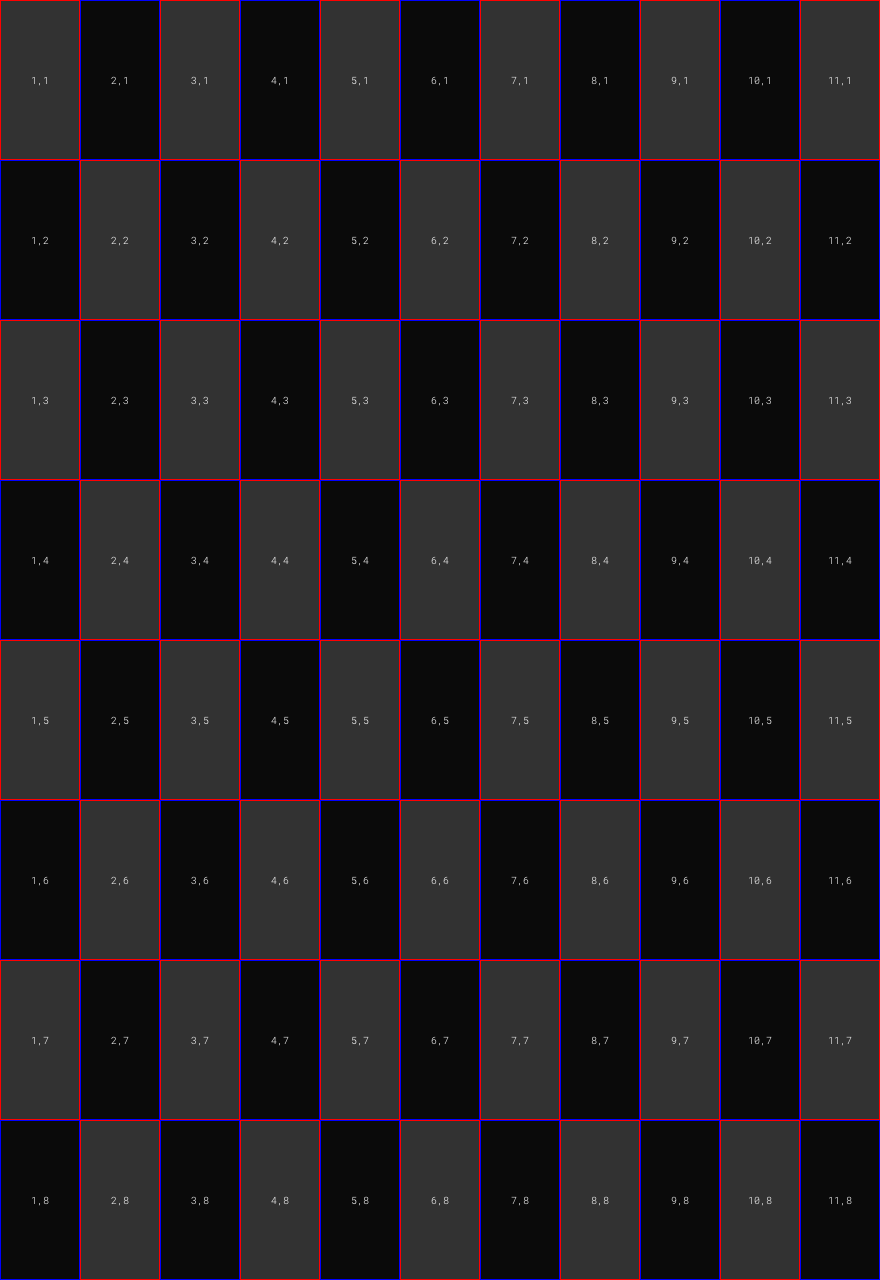
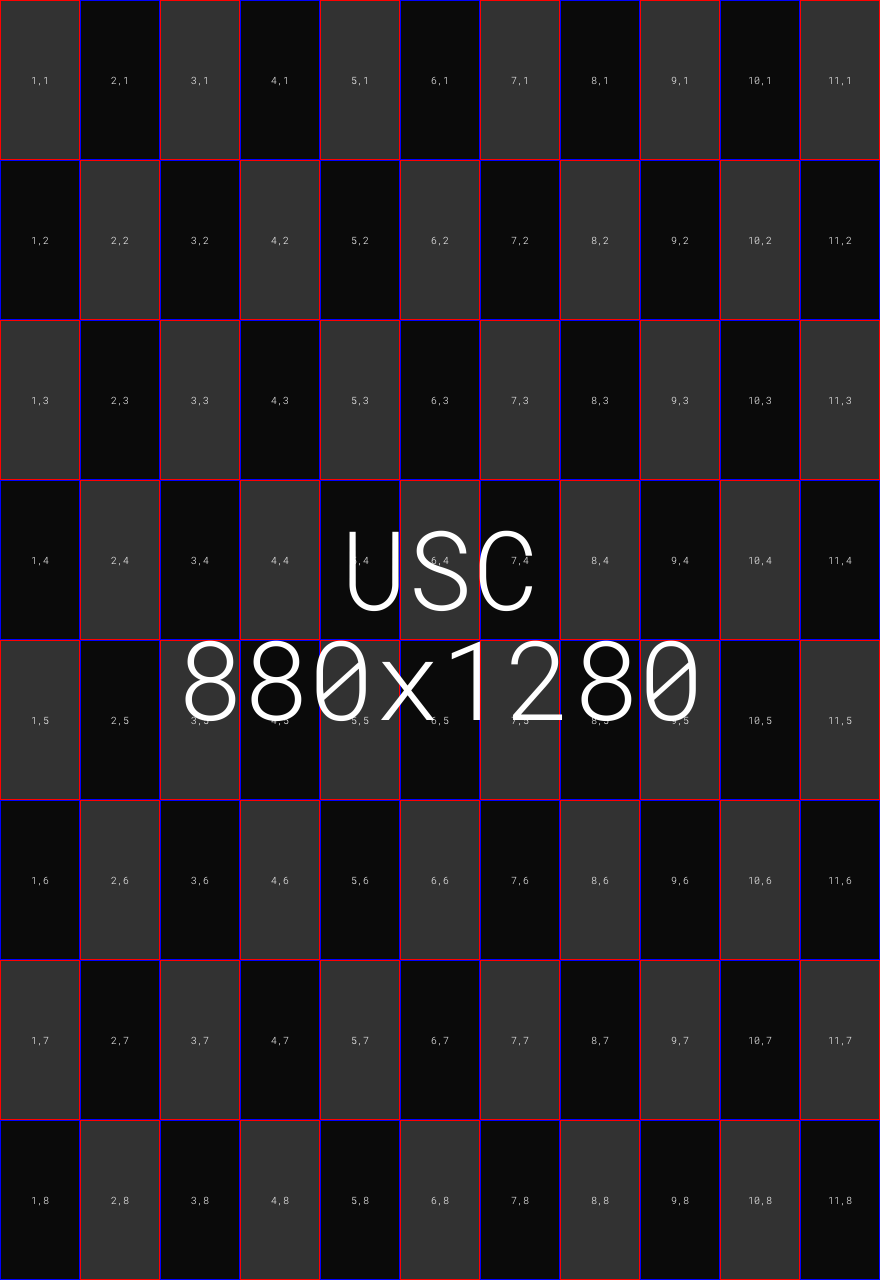
Stealth Rasters added

diff --git a/src/screens.py b/src/screens.py
@@ -36,6 +36,7 @@ class Screen:
     def draw_eng(self):
         self.resetImg()
         self.draw_tiles()
+        self.draw_screen_text()
         self.im.save(self.path / "Eng" / (self.name+".png"))
         pass
 
@@ -49,6 +50,8 @@ class Screen:
 
     def draw_stealth(self):
         self.resetImg()
+        self.drawBG((0,0,0), (76,185,227))
+        self.im.save(self.path / 'Stealth' / (self.name+".png"))
         pass
 
     def draw_pretty(self):
@@ -118,6 +121,7 @@ def test():
     #Make Dirs... This will need to change 
     os.makedirs(root_dir / 'testing' / 'Content', exist_ok=True)
     os.makedirs(root_dir / 'testing' / 'Eng', exist_ok=True)
+    os.makedirs(root_dir / 'testing' / 'Stealth', exist_ok=True)
 
     path = root_dir / 'testing'
     testing = Screen("USC", path, 80, 160, 11, 8)
@@ -126,6 +130,7 @@ def test():
 
     testing.draw_content()
     testing.draw_eng()
+    testing.draw_stealth()
 
         
 
